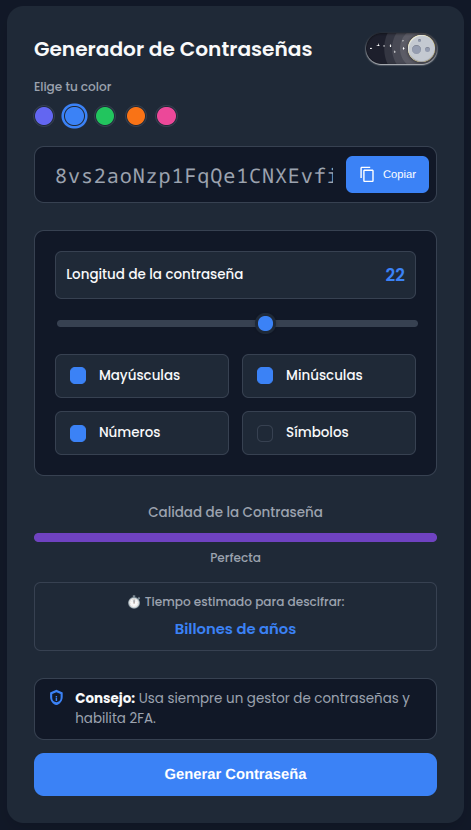
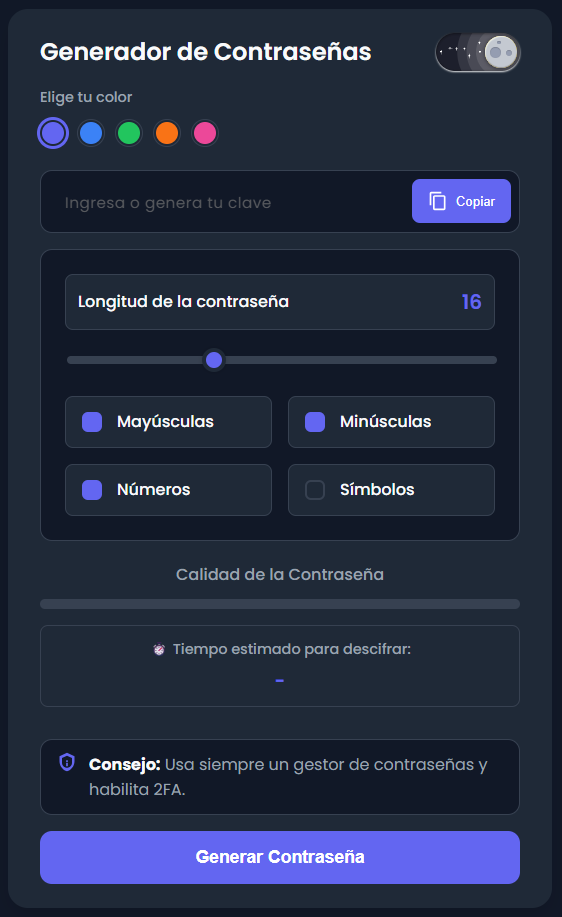
Actualiza imágenes y mejora la interfaz de usuario; permite ingreso manual de contraseñas y optimiza la puntuación de seguridad.

diff --git a/script.js b/script.js
@@ -168,20 +168,16 @@ document.addEventListener('DOMContentLoaded', () => {
         let score = 0;
         const length = password.length;
 
-        // Contar cuántos tipos de caracteres están seleccionados
-        let checkedOptions = [elements.includeUppercase, elements.includeLowercase, elements.includeNumbers, elements.includeSymbols].filter(el => el.checked).length;
-
         // Análisis mejorado de la contraseña
         const hasUpper = /[A-Z]/.test(password);
         const hasLower = /[a-z]/.test(password);
         const hasNumbers = /\d/.test(password);
         const hasSymbols = /[^A-Za-z0-9]/.test(password);
+        const charTypes = [hasUpper, hasLower, hasNumbers, hasSymbols].filter(Boolean).length;
 
         // Regla especial: si solo hay un tipo de caracter y la longitud es baja, es "Muy Débil"
-        if (checkedOptions === 1 && length >= 8 && length <= 12) {
+        if (charTypes === 1 && length <= 12) {
             score = 1; // Forzar el nivel más bajo
-        } else if (!password) {
-            score = 0;
         } else {
             // Lógica de puntuación mejorada
             if (length >= 8) score++;
@@ -190,7 +186,6 @@ document.addEventListener('DOMContentLoaded', () => {
             if (length >= 20) score++;
             
             // Diversidad de caracteres
-            const charTypes = [hasUpper, hasLower, hasNumbers, hasSymbols].filter(Boolean).length;
             score += charTypes;
             
             // Penalización por patrones comunes
@@ -383,6 +378,12 @@ document.addEventListener('DOMContentLoaded', () => {
 
     elements.generateButton.addEventListener('click', displayNewPassword);
     elements.copyButton.addEventListener('click', copyPasswordToClipboard);
+    
+    // Permitir ingreso manual de contraseña y actualizar calidad en tiempo real
+    elements.passwordOutput.addEventListener('input', (e) => {
+        const password = e.target.value;
+        checkPasswordStrength(password);
+    });
     
     // Solo usar debounce para los checkboxes, no para el slider
     elements.optionsCheckboxes.forEach(checkbox => {

diff --git a/style.css b/style.css
@@ -69,6 +69,7 @@ body {
     padding: 1rem;
     color: var(--text-primary);
     transition: background-color var(--transition-speed) ease, color var(--transition-speed) ease;
+    overflow: hidden;
 }
 
 .container {
@@ -77,7 +78,7 @@ body {
     box-shadow: 0 10px 25px -5px rgba(0, 0, 0, 0.1), 0 10px 10px -5px rgba(0, 0, 0, 0.04);
     width: 100%;
     max-width: 480px;
-    padding: 2rem;
+    padding: 1.5rem 2rem;
     transition: background-color var(--transition-speed) ease;
 }
 
@@ -115,7 +116,7 @@ body {
     background-color: var(--bg);
     border-radius: 12px;
     padding: 0.5rem;
-    margin-bottom: 2rem;
+    margin-bottom: 1rem;
     border: 1px solid var(--border-color);
     transition: background-color var(--transition-speed) ease, border-color var(--transition-speed) ease;
 }
@@ -124,13 +125,20 @@ body {
     flex-grow: 1;
     background: none;
     border: none;
-    font-size: 1.5rem;
-    font-weight: 500;
+    font-size: 1.2rem;
+    font-weight: 600;
     padding: 0.5rem 1rem;
-    color: var(--text-secondary);
-    letter-spacing: 1px;
-    font-family: monospace;
+    color: var(--accent);
+    letter-spacing: 0.5px;
+    font-family: var(--font-family);
     width: 100%;
+    cursor: text;
+}
+#passwordOutput::placeholder {
+    font-size: 0.95rem;
+    font-weight: 400;
+    opacity: 0.7;
+    font-family: var(--font-family);
 }
 #passwordOutput:focus { outline: none; }
 
@@ -161,7 +169,7 @@ body {
     background-color: var(--bg);
     border-radius: 12px;
     padding: 1.5rem;
-    margin-bottom: 2rem;
+    margin-bottom: 1rem;
     border: 1px solid var(--border-color);
     transition: background-color var(--transition-speed) ease, border-color var(--transition-speed) ease;
 }

diff --git a/index.html b/index.html
@@ -57,7 +57,7 @@
         </div>
 
         <div class="password-display">
-            <input type="text" id="passwordOutput" readonly placeholder="P4$5W0rD!">
+            <input type="text" id="passwordOutput" placeholder="Ingresa o genera tu clave">
             <button id="copyButton" title="Copiar al portapapeles">
                 <svg xmlns="http://www.w3.org/2000/svg" height="24px" viewBox="0 0 24 24" width="24px" fill="currentColor"><path d="M0 0h24v24H0V0z" fill="none"/><path d="M16 1H4c-1.1 0-2 .9-2 2v14h2V3h12V1zm3 4H8c-1.1 0-2 .9-2 2v14c0 1.1.9 2 2 2h11c1.1 0 2-.9 2-2V7c0-1.1-.9-2-2-2zm0 16H8V7h11v14z"/></svg>
                 <span id="copyButtonText">Copiar</span>

diff --git a/README.md b/README.md
@@ -23,8 +23,7 @@ Crea contraseñas fuertes, personalizadas y copia al portapapeles con un solo cl
 
 ## 🖥 Vista previa
 
-![alt text](image-1.png)
-
+![alt text](image.png)
 ---
 
 ## 🧩 ¿Cómo usar?
